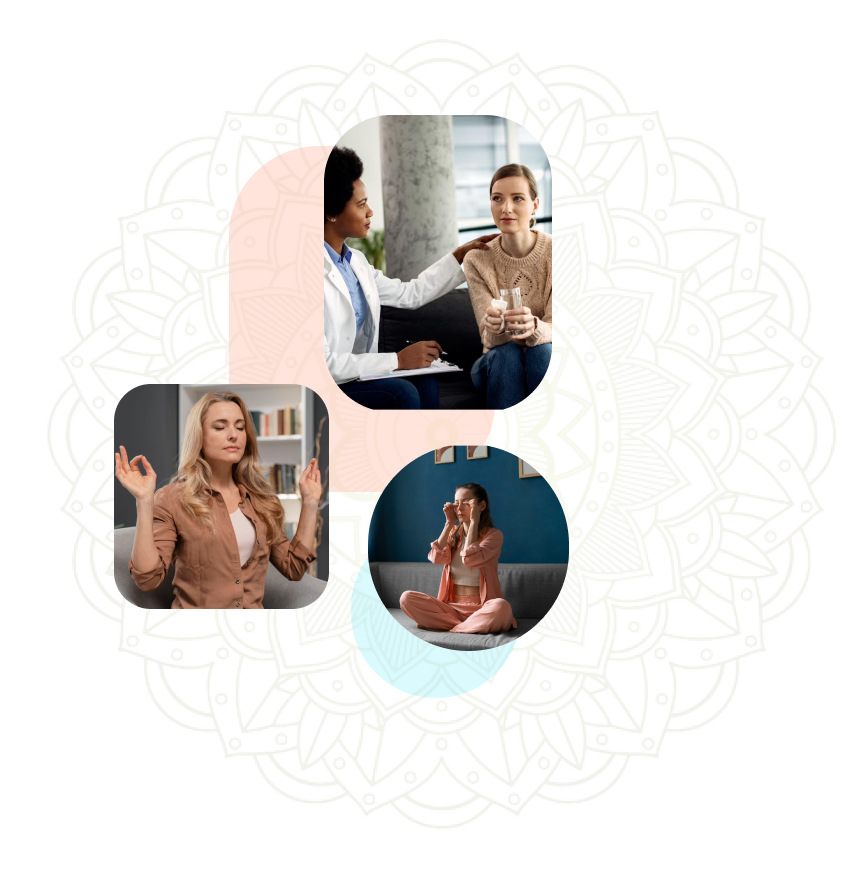
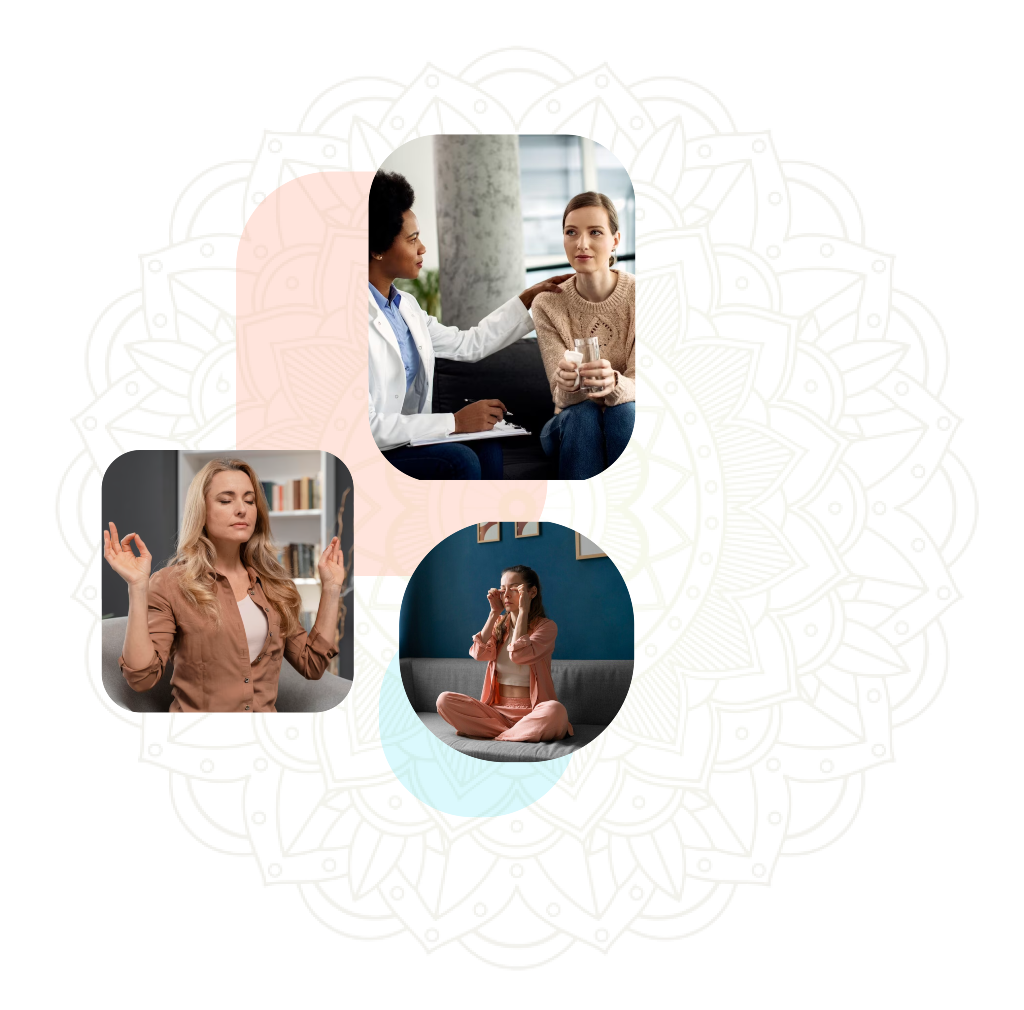
updated ui

Changed region(s): [[0.0925, 0.1212, 0.6785, 0.8182]]

diff --git a/index.html b/index.html
@@ -146,7 +146,7 @@
       class="container mx-auto flex flex-col items-center rounded-3xl !px-5 py-2 lg:bg-primary-50/30 lg:py-6 lg:flex-row 2xl:justify-between 2xl:py-8"
     >
       <div
-        class="lg:order-2 xl:w-[45%] 2xl:flex 2xl:justify-end mb-6 lg:mb-0 lg:translate-x-20 lg:translate-y-6 2xl"
+        class="lg:order-2 xl:w-[45%] 2xl:flex 2xl:justify-end mb-6 lg:mb-0 lg:translate-x-20 lg:translate-y-6 2xl -mx-5"
       >
         <!-- Desktop Image -->
         <img
@@ -334,48 +334,92 @@
     </section>
 
     <!-- ========== Internship ========== -->
-    <!-- <section class="relative py-12">
-      <img
-        src="src/images/home/internship.svg"
-        alt=""
-        class="mx-auto w-full object-cover lg:w-4/5 xl:w-3/5"
-      />
-
-      <div
-        class="absolute left-1/2 top-1/2 w-3/5 -translate-x-1/2 -translate-y-1/2 text-center sm:w-[400px] md:w-[480px] 2xl:w-[500px]"
-      >
-        <h3
-          class="bg-gradient-to-r from-secondary via-tertiary to-primary-300 bg-clip-text font-poppins text-lg font-bold leading-5 text-transparent xs:text-2xl sm:text-3xl md:text-5xl 2xl:text-6xl"
-        >
-          Looking for an internship?
-        </h3>
-        <p
-          class="mb-2 text-xs leading-4 xs:text-sm sm:text-base md:mb-4 md:text-lg lg:text-xl"
-        >
-          Upload your CV and make a positive impact on peoples life by joining
-          our internship program.
-        </p>
-        <button
-          class="rounded-full bg-primary-500 px-4 py-1.5 text-sm text-white md:px-5 md:py-3"
-        >
-          Get Started
-        </button>
+    <section class="relative py-12 hidden">
+      <div class="py-14 border-2 w-fit px-8 rounded-[100%] mx-auto">
+        <div class="border-2 w-fit mx-10 py-14 px-8 rounded-[100%]">
+          <div
+            class="text-center py-32 border-2 w-fit mx-10 px-8 rounded-[100%]"
+          >
+            <h3
+              class="heading-primary text-lg lg:text-5xl font-bold pb-1 text-center"
+            >
+              Looking for an internship?
+            </h3>
+            <p
+              class="mb-2 text-xs leading-4 sm:text-base md:mb-4 md:text-lg w-[640px] px-10"
+            >
+              Upload your CV and make a positive impact on peoples life by
+              joining our internship program.
+            </p>
+            <button class="btn-one">Get Started</button>
+          </div>
+        </div>
       </div>
 
       <img
         src="src/images/home/doodle-1.svg"
         alt=""
-        class="absolute right-0 top-10 w-20 object-cover xs:w-32 sm:w-40 md:w-56 lg:w-72 xl:w-80 2xl:w-[400px] 3xl:w-[520px]"
+        class="absolute right-0 top-0 w-20 object-cover xs:w-32 sm:w-40 md:w-56 lg:w-72 xl:w-80"
       />
       <img
         src="src/images/home/doodle-2.svg"
         alt=""
-        class="absolute bottom-0 left-0 w-20 object-cover xs:w-32 sm:w-40 md:w-56 lg:w-72 xl:w-80 2xl:w-[400px] 3xl:w-[520px]"
+        class="absolute bottom-0 left-0 w-20 object-cover xs:w-32 sm:w-40 md:w-56 lg:w-72 xl:w-80"
       />
-    </section> -->
+    </section>
+
+    <!-- ========== Community ========== -->
+    <section class="overflow-x-hidden relative">
+      <div class="container mx-auto">
+        <div
+          class="flex flex-col justify-between lg:flex-row lg:items-center relative"
+        >
+          <article class="mx-auto pb-10 lg:w-3/5">
+            <hgroup class="mb-14">
+              <h2 class="subheading heading-primary">Wleness Community</h2>
+              <p class="para">
+                Wleness is beginning of happiness of your life.
+              </p>
+            </hgroup>
+
+            <p class="text-lg mb-8 lg:pr-28">
+              "<span class="text-primary-300 font-bold">Embrace</span>,
+              <span class="text-primary-300 font-bold">Empower</span>,
+              <span class="text-primary-300 font-bold">Elevate</span>: Join our
+              mental health community app and discover a safe space to share,
+              heal, and grow together. Let's break the stigma and support each
+              other on this journey towards emotional well-being.
+            </p>
+            <button class="btn-one">Join Us Now</button>
+          </article>
+
+          <div class="p-4 lg:p-10 lg:w-2/5">
+            <div class="">
+              <img
+                src="src/images/home/community.png"
+                alt=""
+                class="w-full object-cover"
+              />
+            </div>
+          </div>
+        </div>
+      </div>
+
+      <!-- Doodles -->
+      <img
+        src="src/images/home/doodle-2.svg"
+        alt=""
+        class="absolute right-0 top-0 w-20 object-cover xs:w-32 sm:w-40 md:w-56 lg:w-72 xl:w-80 -scale-x-[1] opacity-20"
+      />
+      <img
+        src="src/images/home/doodle-2.svg"
+        alt=""
+        class="absolute bottom-0 left-0 w-20 object-cover xs:w-32 sm:w-40 md:w-56 lg:w-72 xl:w-80 opacity-20"
+      />
+    </section>
 
     <!-- ========== Why Choose Us ========== -->
-    <section class="container mx-auto pb-7 pt-10 lg:pt-20 overflow-x-hidden">
+    <section class="container mx-auto pb-7 pt-10 lg:pt-12 overflow-x-hidden">
       <div class="flex flex-col items-end">
         <hgroup class="mb-4 lg:w-3/5 lg:text-center">
           <h2 class="subheading heading-primary">Why Choose Us?</h2>
@@ -506,7 +550,9 @@
 
     <!-- ========== Our Testimonial ========== -->
     <section>
-      <h2 class="subheading heading-primary text-center mb-8">
+      <h2
+        class="subheading heading-primary text-center mb-8 block mx-auto !w-fit"
+      >
         Our Testimonials
       </h2>
       <div class="bg-gradient-to-b from-primary-300/20 to-white py-7 lg:py-14">
@@ -545,7 +591,9 @@
           <div
             class="absolute translate-x-1/2 right-1/2 lg:right-0 lg:translate-x-0 bottom-0"
           >
-            <button class="w-12 h-12 border-2 rounded-full mr-6">
+            <button
+              class="w-12 h-12 border-2 border-primary-300 rounded-full mr-6"
+            >
               <i class="fa-solid fa-caret-right text-primary-300 text-4xl"></i>
             </button>
             <button class="bg-primary-300 w-12 h-12 rounded-full">
@@ -641,7 +689,7 @@
 
     <!-- ========== Request Form ========== -->
     <section
-      class="container mx-auto mb-6 lg:mb-28 py-12 px-6 xs:px-8 xs:py-14 grid md:grid-cols-2 rounded-3xl lg:px-8 md:divide-x bg-[#FAFCE7] lg:py-16 2xl:py-20"
+      class="container mx-auto mb-6 lg:mb-28 py-12 px-6 xs:px-8 xs:py-14 grid md:grid-cols-2 rounded-3xl lg:px-8 bg-[#FAFCE7] lg:py-16 2xl:py-20"
     >
       <div class="md:px-6 md:flex md:flex-col md:justify-between md:h-full">
         <div>
@@ -692,7 +740,7 @@
             class="px-6 block py-4 w-full rounded-md shadow-md focus:ring focus:ring-opacity-75 focus:ring-violet-400 dark:bg-white"
           />
         </label>
-        <button type="button" class="btn-one">Submit</button>
+        <button type="button" class="btn-one mx-auto">Submit</button>
       </form>
     </section>
 

diff --git a/src/css/style.css b/src/css/style.css
@@ -75,10 +75,10 @@ h1, h2, h3, h4, h5, h6, p, span, li, ul, button, a{
 
 /* Buttons */
 .btn-primary {
-  @apply px-12 lg:px-6 py-2 lg:py-3.5 text-xs md:text-sm lg:text-base w-fit rounded-xl text-white bg-primary-100 hover:bg-primary-300 transition-all text-center lg:w-full;
+  @apply px-6 lg:px-6 py-2 lg:py-3.5 text-xs md:text-sm lg:text-base w-fit rounded-xl text-white bg-primary-100 hover:bg-primary-300 transition-all text-center lg:w-full;
 }
 .btn-one {
-  @apply px-12 py-2 lg:py-3.5 text-xs md:text-sm lg:text-base text-white transition-all text-center w-fit rounded-full bg-primary-400 hover:bg-primary-300 font-semibold;
+  @apply px-4 py-2 lg:py-3.5 lg:px-8 text-xs md:text-sm lg:text-base text-white transition-all text-center w-fit rounded-full bg-primary-400 hover:bg-primary-300 font-semibold;
 }
 .btn-transparent {
   @apply px-12 lg:px-6 py-2 lg:py-3.5 text-xs md:text-sm lg:text-base rounded-xl hover:bg-primary-300 transition-all border-2 border-slate-200 hover:text-white w-fit text-center lg:w-full;
